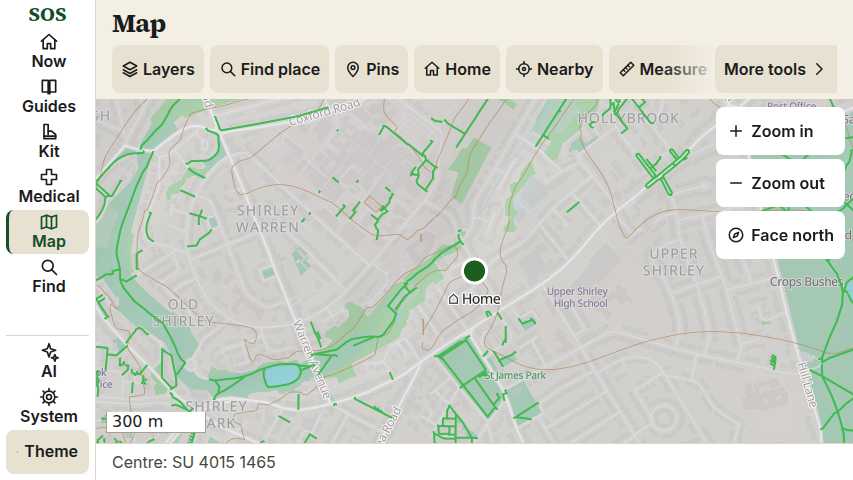
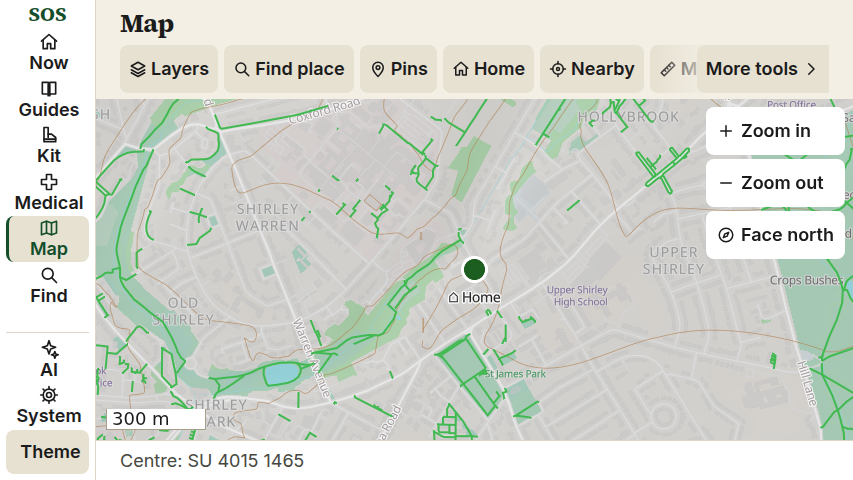
fix(map): a caption is not written in the colour of the thing it names
Review of the theming batch: Field had stopped being what it was. Wiring each
caption's ink and each dot's ring to the token for the mark it belongs to gave
"⌂ Home" the home marker's own white over a white halo — an invisible word on
the paper map — turned pin captions amber where they had been black, and put a
ring on the measuring dots that Field never drew.

Annotations gains two tokens of their own: labelInk (black on paper, white in
Mono) for both captions, and measureRing, a width, 0 in Field and 1.5 in Mono
where a white dot over a white road needs it. Field is byte-identical in effect
to before the batch.

The paint objects move out of MapView's four sync functions into
annotationPaint(theme) in layers.ts, keyed by layer id, so the screen and the
test read one table rather than two copies of the same intention — which is
what let three tokens hold the right value and be applied to the wrong
property. MapView adds and repaints through one drawn() helper. The Field guard
now asserts the built paint for all seven layers, not just the palette.

Screenshot: docs/screenshots/2026-09-06-themes/map-853-field.png retaken; the
Home caption is black on the paper sheet again.

diff --git a/web/src/map/MapView.tsx b/web/src/map/MapView.tsx
@@ -1,9 +1,9 @@
 import { useEffect, useMemo, useRef, useState } from 'react';
-import maplibregl, { type DataDrivenPropertyValueSpecification, type Map as MlMap } from 'maplibre-gl';
+import maplibregl, { type LayerSpecification, type Map as MlMap } from 'maplibre-gl';
 import 'maplibre-gl/dist/maplibre-gl.css';
 import type { MapConfig, Note } from '../api/types';
 import type { Theme } from '../theme/ThemeProvider';
-import { addTerrain, annotations, carryStyleAcross, isEtagMismatch, recreateSource, registerPmtilesProtocol, setTerrainVisible } from './layers';
+import { addTerrain, annotationPaint, carryStyleAcross, isEtagMismatch, recreateSource, registerPmtilesProtocol, setTerrainVisible } from './layers';
 import { addOverlay, setOverlayVisible } from './overlays';
 import { attachFeatureTooltip } from './tooltip';
 import type { LngLat } from './measure';
@@ -36,11 +36,12 @@ export type MapViewProps = {
 
 const LONG_PRESS_MS = 600;
 
-/** Set a paint property on a layer the box drew, whether it has just been added or was carried
- * across a style reload in the colours of the theme before this one. */
-function paint(map: MlMap, id: string, props: Record<string, unknown>): void {
-  if (!map.getLayer(id)) return;
-  for (const [key, value] of Object.entries(props)) map.setPaintProperty(id, key, value);
+/** Add a layer the box draws, or — when it is already there, carried across the style reload a theme
+ * switch causes — repaint it in the theme it should be wearing now. */
+function drawn(map: MlMap, theme: Theme, spec: { id: string; type: 'circle' | 'line' | 'symbol'; source: string; layout?: Record<string, unknown> }): void {
+  const props = annotationPaint(theme)[spec.id] ?? {};
+  if (!map.getLayer(spec.id)) map.addLayer({ ...spec, paint: props } as LayerSpecification);
+  for (const [key, value] of Object.entries(props)) map.setPaintProperty(spec.id, key, value);
 }
 
 function syncPins(map: MlMap, pins: Note[], labelPoint: MapViewProps['labelPoint'], theme: Theme): void {
@@ -55,16 +56,10 @@ function syncPins(map: MlMap, pins: Note[], labelPoint: MapViewProps['labelPoint
   } else {
     map.addSource('sos-pins', { type: 'geojson', data });
   }
-  const c = annotations(theme);
-  const pinColour = ['match', ['get', 'kind'], 'label', c.label, c.pin] as unknown as DataDrivenPropertyValueSpecification<string>;
-  if (!map.getLayer('sos-pins-point')) {
-    map.addLayer({ id: 'sos-pins-point', type: 'circle', source: 'sos-pins', paint: { 'circle-radius': 8, 'circle-color': pinColour, 'circle-stroke-color': c.pinStroke, 'circle-stroke-width': 2 } });
+  drawn(map, theme, { id: 'sos-pins-point', type: 'circle', source: 'sos-pins' });
+  if (map.getLayer('sos-pins-label') || map.getStyle().glyphs) {
+    drawn(map, theme, { id: 'sos-pins-label', type: 'symbol', source: 'sos-pins', layout: { 'text-field': ['get', 'title'], 'text-font': ['Noto Sans Regular'], 'text-size': 13, 'text-offset': [0, 1.2], 'text-anchor': 'top' } });
   }
-  if (!map.getLayer('sos-pins-label') && map.getStyle().glyphs) {
-    map.addLayer({ id: 'sos-pins-label', type: 'symbol', source: 'sos-pins', layout: { 'text-field': ['get', 'title'], 'text-font': ['Noto Sans Regular'], 'text-size': 13, 'text-offset': [0, 1.2], 'text-anchor': 'top' }, paint: { 'text-color': c.pin, 'text-halo-color': c.halo, 'text-halo-width': 1.5 } });
-  }
-  paint(map, 'sos-pins-point', { 'circle-color': pinColour, 'circle-stroke-color': c.pinStroke });
-  paint(map, 'sos-pins-label', { 'text-color': c.pin, 'text-halo-color': c.halo });
 }
 
 function syncHome(map: MlMap, home: MapViewProps['home'], theme: Theme): void {
@@ -75,15 +70,10 @@ function syncHome(map: MlMap, home: MapViewProps['home'], theme: Theme): void {
   const existing = map.getSource('sos-home') as { setData?: (d: unknown) => void } | undefined;
   if (existing?.setData) existing.setData(data);
   else map.addSource('sos-home', { type: 'geojson', data });
-  const c = annotations(theme);
-  if (!map.getLayer('sos-home-point')) {
-    map.addLayer({ id: 'sos-home-point', type: 'circle', source: 'sos-home', paint: { 'circle-radius': 11, 'circle-color': c.home, 'circle-stroke-color': c.homeStroke, 'circle-stroke-width': 3 } });
+  drawn(map, theme, { id: 'sos-home-point', type: 'circle', source: 'sos-home' });
+  if (map.getLayer('sos-home-label') || map.getStyle().glyphs) {
+    drawn(map, theme, { id: 'sos-home-label', type: 'symbol', source: 'sos-home', layout: { 'text-field': ['get', 'title'], 'text-font': ['Noto Sans Regular'], 'text-size': 14, 'text-offset': [0, 1.4], 'text-anchor': 'top' } });
   }
-  if (!map.getLayer('sos-home-label') && map.getStyle().glyphs) {
-    map.addLayer({ id: 'sos-home-label', type: 'symbol', source: 'sos-home', layout: { 'text-field': ['get', 'title'], 'text-font': ['Noto Sans Regular'], 'text-size': 14, 'text-offset': [0, 1.4], 'text-anchor': 'top' }, paint: { 'text-color': c.homeStroke, 'text-halo-color': c.halo, 'text-halo-width': 1.5 } });
-  }
-  paint(map, 'sos-home-point', { 'circle-color': c.home, 'circle-stroke-color': c.homeStroke });
-  paint(map, 'sos-home-label', { 'text-color': c.homeStroke, 'text-halo-color': c.halo });
 }
 
 function syncRoute(map: MlMap, points: LngLat[], theme: Theme): void {
@@ -95,11 +85,7 @@ function syncRoute(map: MlMap, points: LngLat[], theme: Theme): void {
   const existing = map.getSource('sos-route') as { setData?: (d: unknown) => void } | undefined;
   if (existing?.setData) existing.setData(data);
   else map.addSource('sos-route', { type: 'geojson', data });
-  const c = annotations(theme);
-  if (!map.getLayer('sos-route-line')) {
-    map.addLayer({ id: 'sos-route-line', type: 'line', source: 'sos-route', paint: { 'line-color': c.route, 'line-width': 4, 'line-dasharray': [3, 1.5] } });
-  }
-  paint(map, 'sos-route-line', { 'line-color': c.route });
+  drawn(map, theme, { id: 'sos-route-line', type: 'line', source: 'sos-route' });
 }
 
 function syncMeasure(map: MlMap, points: LngLat[], theme: Theme): void {
@@ -114,11 +100,8 @@ function syncMeasure(map: MlMap, points: LngLat[], theme: Theme): void {
   const existing = map.getSource('sos-measure') as { setData?: (d: unknown) => void } | undefined;
   if (existing?.setData) existing.setData(data);
   else map.addSource('sos-measure', { type: 'geojson', data });
-  const c = annotations(theme);
-  if (!map.getLayer('sos-measure-line')) map.addLayer({ id: 'sos-measure-line', type: 'line', source: 'sos-measure', paint: { 'line-color': c.measure, 'line-width': 3, 'line-dasharray': [2, 1] } });
-  if (!map.getLayer('sos-measure-point')) map.addLayer({ id: 'sos-measure-point', type: 'circle', source: 'sos-measure', paint: { 'circle-radius': 5, 'circle-color': c.measure, 'circle-stroke-color': c.pinStroke, 'circle-stroke-width': 1.5 } });
-  paint(map, 'sos-measure-line', { 'line-color': c.measure });
-  paint(map, 'sos-measure-point', { 'circle-color': c.measure, 'circle-stroke-color': c.pinStroke });
+  drawn(map, theme, { id: 'sos-measure-line', type: 'line', source: 'sos-measure' });
+  drawn(map, theme, { id: 'sos-measure-point', type: 'circle', source: 'sos-measure' });
 }
 
 export function MapView(props: MapViewProps) {

diff --git a/web/tests/map/layers.test.ts b/web/tests/map/layers.test.ts
@@ -1,7 +1,7 @@
 import { describe, it, expect, vi } from 'vitest';
 import type { Map as MlMap } from 'maplibre-gl';
 import { FakeMap } from './fakeMap';
-import { annotations, carryStyleAcross, overlayPaint, terrainSpec, addTerrain, setTerrainVisible, recreateSource, isEtagMismatch, pmtilesUrl } from '../../src/map/layers';
+import { annotationPaint, annotations, carryStyleAcross, overlayPaint, terrainSpec, addTerrain, setTerrainVisible, recreateSource, isEtagMismatch, pmtilesUrl } from '../../src/map/layers';
 import { mapConfig } from '../fixtures/api';
 
 vi.mock('maplibre-gl', () => ({ default: { addProtocol: vi.fn() }, addProtocol: vi.fn() }));
@@ -67,13 +67,54 @@ describe('annotation colours', () => {
     expect(annotations('field')).toEqual({
       pin: '#ffb000', label: '#1e88e5', pinStroke: '#000000',
       home: '#1b5e20', homeStroke: '#ffffff',
-      route: '#1b5e20', measure: '#ff3d00', halo: '#ffffff',
+      route: '#1b5e20', measure: '#ff3d00',
+      labelInk: '#000000', halo: '#ffffff', measureRing: 0,
     });
+  });
+
+  /** What the map actually paints, not just what the table holds: every one of these is a value the
+   * Field map had before the themes were pulled out into a table, and every one of them is a way of
+   * writing something invisible if a token is wired to the wrong property. */
+  it('paints the Field layers exactly as it did before the tokens existed', () => {
+    const p = annotationPaint('field');
+    // Captions are black ink on a white halo. Written in the mark's own colour instead, the home
+    // caption is white on a white halo — an invisible word — and pin captions turn amber.
+    expect(p['sos-home-label']).toEqual({ 'text-color': '#000000', 'text-halo-color': '#ffffff', 'text-halo-width': 1.5 });
+    expect(p['sos-pins-label']).toEqual({ 'text-color': '#000000', 'text-halo-color': '#ffffff', 'text-halo-width': 1.5 });
+    // Measuring points are bare orange dots on paper: no ring, as before.
+    expect(p['sos-measure-point']).toEqual({ 'circle-radius': 5, 'circle-color': '#ff3d00', 'circle-stroke-color': '#000000', 'circle-stroke-width': 0 });
+    expect(p['sos-measure-line']).toEqual({ 'line-color': '#ff3d00', 'line-width': 3, 'line-dasharray': [2, 1] });
+    expect(p['sos-home-point']).toEqual({ 'circle-radius': 11, 'circle-color': '#1b5e20', 'circle-stroke-color': '#ffffff', 'circle-stroke-width': 3 });
+    expect(p['sos-route-line']).toEqual({ 'line-color': '#1b5e20', 'line-width': 4, 'line-dasharray': [3, 1.5] });
+    expect(p['sos-pins-point']).toEqual({
+      'circle-radius': 8, 'circle-color': ['match', ['get', 'kind'], 'label', '#1e88e5', '#ffb000'],
+      'circle-stroke-color': '#000000', 'circle-stroke-width': 2,
+    });
+  });
+
+  it('writes Mono captions white on a black halo, and rings the measuring points', () => {
+    const p = annotationPaint('mono');
+    expect(p['sos-home-label']).toEqual({ 'text-color': '#ffffff', 'text-halo-color': '#000000', 'text-halo-width': 1.5 });
+    expect(p['sos-pins-label']).toEqual({ 'text-color': '#ffffff', 'text-halo-color': '#000000', 'text-halo-width': 1.5 });
+    // A white dot over a white road needs the ring Field does not.
+    expect(p['sos-measure-point']['circle-stroke-width']).toBe(1.5);
+    expect(p['sos-measure-point']['circle-stroke-color']).toBe('#000000');
+    // The home marker is the one drawn inside out: black disc, white ring.
+    expect(p['sos-home-point']['circle-color']).toBe('#000000');
+    expect(p['sos-home-point']['circle-stroke-color']).toBe('#ffffff');
+  });
+
+  it('names a paint entry for every layer the box draws, in both themes', () => {
+    const ids = ['sos-pins-point', 'sos-pins-label', 'sos-home-point', 'sos-home-label', 'sos-route-line', 'sos-measure-line', 'sos-measure-point'];
+    for (const theme of ['field', 'mono'] as const) expect(Object.keys(annotationPaint(theme)).sort()).toEqual([...ids].sort());
   });
 
   it('draws every annotation in Mono without a hue anywhere', () => {
     const c = annotations('mono');
-    for (const [name, value] of Object.entries(c)) expect(value, name).toMatch(GREY);
+    for (const [name, value] of Object.entries(c)) {
+      if (typeof value === 'number') continue;   // measureRing is a width, not a colour
+      expect(value, name).toMatch(GREY);
+    }
     // Pins, the measuring line and the line to a facility are white; the label point is the one
     // thing told from a pin by tone rather than by hue, so it is a light grey rather than white.
     expect([c.pin, c.measure, c.route]).toEqual(['#ffffff', '#ffffff', '#ffffff']);
@@ -83,9 +124,12 @@ describe('annotation colours', () => {
     // as another dropped pin.
     expect(c.home).toBe('#000000');
     expect(c.homeStroke).toBe('#ffffff');
-    // Whatever the sheet under it, an annotation carries its own outline and its labels a black halo.
+    // Whatever the sheet under it, an annotation carries its own outline, and a caption is white ink
+    // on a black halo rather than the colour of the mark it names.
     expect(c.pinStroke).toBe('#000000');
     expect(c.halo).toBe('#000000');
+    expect(c.labelInk).toBe('#ffffff');
+    expect(c.labelInk).not.toBe(c.halo);
   });
 });
 

diff --git a/web/src/map/layers.ts b/web/src/map/layers.ts
@@ -53,25 +53,57 @@ export type Annotations = {
   /** The straight line drawn to a facility, and the line being measured. */
   route: string;
   measure: string;
-  /** The halo behind every label the box draws. */
+  /** The ink a caption is written in, and the halo behind it. The two are opposites and are the one
+   * pair that must never be read from the mark they name: "⌂ Home" written in the home marker's own
+   * white ring, over a white halo, is a white word on white paper. */
+  labelInk: string;
   halo: string;
+  /** How thick a ring the measuring points carry. Field draws them as bare orange dots, as it always
+   * has; Mono needs the ring to keep a white dot off a white road. */
+  measureRing: number;
 };
 
 const FIELD_ANNOTATIONS: Annotations = {
   pin: '#ffb000', label: '#1e88e5', pinStroke: '#000000',
   home: '#1b5e20', homeStroke: '#ffffff',
-  route: '#1b5e20', measure: '#ff3d00', halo: '#ffffff',
+  route: '#1b5e20', measure: '#ff3d00',
+  labelInk: '#000000', halo: '#ffffff', measureRing: 0,
 };
 
 /** White on black, and a light grey where two things must be told apart without hue. */
 const MONO_ANNOTATIONS: Annotations = {
   pin: '#ffffff', label: '#d0d0d0', pinStroke: '#000000',
   home: '#000000', homeStroke: '#ffffff',
-  route: '#ffffff', measure: '#ffffff', halo: '#000000',
+  route: '#ffffff', measure: '#ffffff',
+  labelInk: '#ffffff', halo: '#000000', measureRing: 1.5,
 };
 
 export function annotations(theme: Theme): Annotations {
   return theme === 'mono' ? MONO_ANNOTATIONS : FIELD_ANNOTATIONS;
+}
+
+/** The paint for every layer the box draws over the base map, keyed by layer id.
+ *
+ * One table, so what the screen paints and what a test reads are the same object rather than two
+ * copies of the same intention that can drift apart. `MapView` adds each layer with its entry and
+ * sets the same entry again afterwards, which is what repaints a layer carried across the style
+ * reload a theme switch causes. */
+export function annotationPaint(theme: Theme): Record<string, Record<string, unknown>> {
+  const c = annotations(theme);
+  const caption = { 'text-color': c.labelInk, 'text-halo-color': c.halo, 'text-halo-width': 1.5 };
+  return {
+    'sos-pins-point': {
+      'circle-radius': 8,
+      'circle-color': ['match', ['get', 'kind'], 'label', c.label, c.pin],
+      'circle-stroke-color': c.pinStroke, 'circle-stroke-width': 2,
+    },
+    'sos-pins-label': { ...caption },
+    'sos-home-point': { 'circle-radius': 11, 'circle-color': c.home, 'circle-stroke-color': c.homeStroke, 'circle-stroke-width': 3 },
+    'sos-home-label': { ...caption },
+    'sos-route-line': { 'line-color': c.route, 'line-width': 4, 'line-dasharray': [3, 1.5] },
+    'sos-measure-line': { 'line-color': c.measure, 'line-width': 3, 'line-dasharray': [2, 1] },
+    'sos-measure-point': { 'circle-radius': 5, 'circle-color': c.measure, 'circle-stroke-color': c.pinStroke, 'circle-stroke-width': c.measureRing },
+  };
 }
 
 /** How one overlay is painted in this theme. The overlay's own colour is the manifest's, and Field
